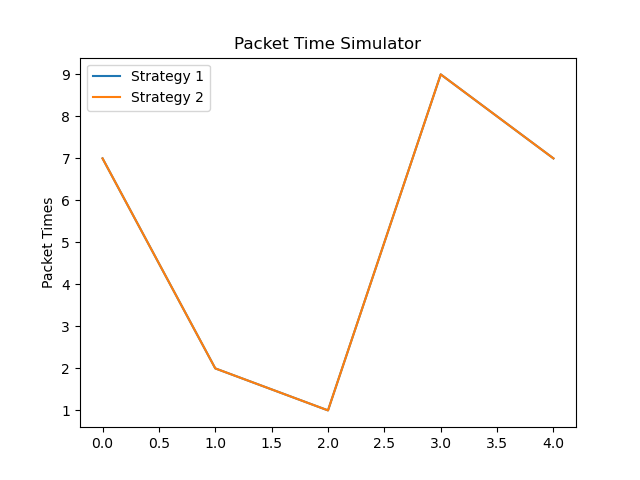
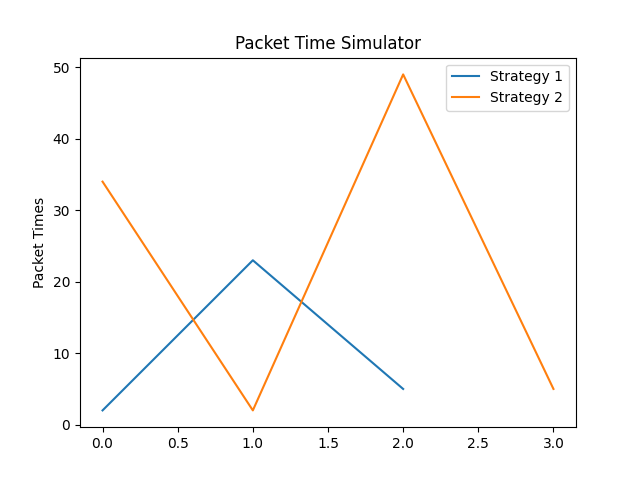
more nodes

diff --git a/graph.py b/graph.py
@@ -7,6 +7,9 @@ import matplotlib.pyplot as plt
 from typing import List
 from Dijkstra import Dijkstra
 import time
+from itertools import combinations, groupby
+import networkx as nx
+import random
 
 
 import csv
@@ -205,7 +208,7 @@ def run_dijkstras(graph: nx.Graph, graph2: nx.Graph, nodeList: List, failed_node
             time_lists1.append(int(weight['weight']))
             current_node = next_node
             print(weight_total)
-    time.sleep(weight_total*0.5)
+    time.sleep(weight_total*0.01)
     print(weight_total)
     end_time = time.time()
 
@@ -223,18 +226,23 @@ def run_dijkstras(graph: nx.Graph, graph2: nx.Graph, nodeList: List, failed_node
             next_node = firstNodesGraph2[current_node][destination]
             print(next_node)
             weight = graph2.get_edge_data(current_node, next_node)
-            
+            print(weight)
             weight_total += int(weight['weight'])
             time_lists2.append(int(weight['weight']))
             current_node = next_node
             print(weight_total)
-    time.sleep(weight_total*0.5)
+    time.sleep(weight_total*0.01)
     print(weight_total)
     end_time = time.time()
 
     elapsed_time2 = end_time - start_time
     print(f'Elapsed first strategy time: {elapsed_time1}')
     print(f'Elapsed second strategy time: {elapsed_time2}')
+
+    print(time_lists1)
+    print()
+    print(time_lists2)
+
     plt.figure()
     plt.plot(time_lists1, label='Strategy 1')
     plt.plot(time_lists2, label='Strategy 2')
@@ -243,6 +251,29 @@ def run_dijkstras(graph: nx.Graph, graph2: nx.Graph, nodeList: List, failed_node
     plt.legend(['Strategy 1', 'Strategy 2'])
     plt.savefig("simulated_packet_times.png")
     plt.show()
+
+
+def gnp_random_connected_graph(n, p):
+    """
+    Generates a random undirected graph, similarly to an Erdős-Rényi 
+    graph, but enforcing that the resulting graph is conneted
+    """
+    edges = combinations(range(n), 2)
+    G = nx.Graph()
+    G.add_nodes_from(range(n))
+    if p <= 0:
+        return G
+    if p >= 1:
+        return nx.complete_graph(n, create_using=G)
+    for _, node_edges in groupby(edges, key=lambda x: x[0]):
+        node_edges = list(node_edges)
+        random_edge = random.choice(node_edges)
+        G.add_edge(*random_edge, weight=random.uniform(1,50))
+        for e in node_edges:
+            if random.random() < p:
+                G.add_edge(*e, weight=random.uniform(1,50))
+    return G
+
 
 
 
@@ -257,19 +288,32 @@ def main():
     G = nx.Graph()
     graph2 = nx.Graph()
     #array of failure percentages
-    failures = [.05, .2, .45, .5, .03, .18, .56, .63, .32, .11, .60, .23, .79, .85, 0.9, .39]
-    nodes = ['A', 'B', 'C', 'D', 'E', 'F', 'G', 'H', 'I', 'J', 'K', 'L', 'M', 'N', 'O', 'P']
-  
+    #failures = [.05, .2, .45, .5, .03, .18, .56, .63, .32, .11, .60, .23, .79, .85, 0.9, .39,.44, .33, .67,.71,.13,.26,.79,.82,.51,.61]
+    #nodes = ['A', 'B', 'C', 'D', 'E', 'F', 'G', 'H', 'I', 'J', 'K', 'L', 'M', 'N', 'O', 'P','Q','R','S','T','U','V','W','X','Y','Z']
+    
+    nodes = 200
+    failures = [random.uniform(0.1, 1.0) for _ in range(nodes)]
+
+    
+    seed = random.randint(1,10)
+    probability = 0.1
+    G = gnp_random_connected_graph(nodes,probability)
+    graph2 = gnp_random_connected_graph(nodes,probability)
+
+    plt.figure(figsize=(8,5))
+    nx.draw(G, node_color='lightblue', 
+        with_labels=True, 
+        node_size=500)
     #Base graph with added edges and weights--> P = destination for dijkstra
 
-    for node in nodes:
-        G.add_node(node)
+    #for node in nodes:
+     #   G.add_node(node)
     #get node data from csv file
-    with open('graphVals.csv', 'r') as file:
-        csvreader = csv.reader(file)
-        for row in csvreader:
-            G.add_edge(row[0], row[1], weight=row[2])
-            graph2.add_edge(row[0], row[1], weight=row[2])
+    #with open('graphVals.csv', 'r') as file:
+     #   csvreader = csv.reader(file)
+      #  for row in csvreader:
+       #     G.add_edge(row[0], row[1], weight=row[2])
+        #    graph2.add_edge(row[0], row[1], weight=row[2])
 
     #drawing a graph using the networkx library from the pulled csv file
     pos=nx.spring_layout(G)

diff --git a/Dijkstra.py b/Dijkstra.py
@@ -44,7 +44,7 @@ class Dijkstra(object):
         if x in self.unvisited:
           nodes_to_check.append(x)
       next_path = float("inf")
-      next_node = 'A'
+      next_node = 1
       for y in nodes_to_check:
         
         if(self.shortest_paths[y] < next_path and y in self.unvisited):
@@ -88,3 +88,4 @@ class Dijkstra(object):
       else:
         self.shortest_nodes[neighbor] = self.shortest_nodes[source]
     
+
